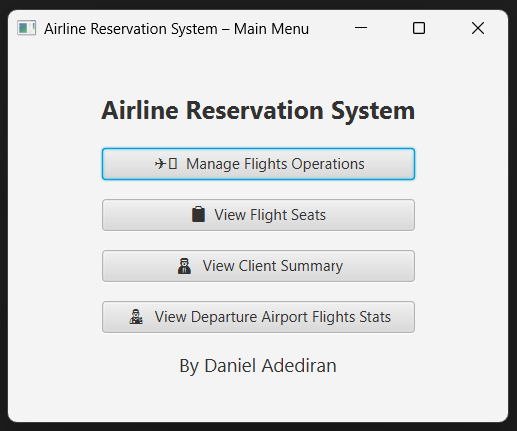
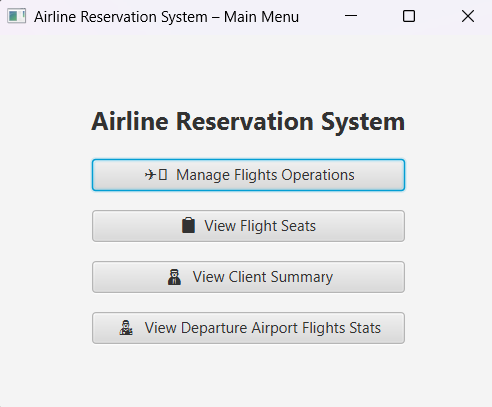
chore: minor changes

Changed region(s): [[0.1829, 0.2359, 0.8232, 0.8845], [0.0, 0.0, 1.0, 1.0]]

diff --git a/ARS-app/src/view/MainMenuView.java b/ARS-app/src/view/MainMenuView.java
@@ -29,11 +29,8 @@ public class MainMenuView {
         report2Btn.setOnAction(e -> new ClientSummaryView().start(new Stage()));
         report3Btn.setOnAction(e -> new FlightDistributionChartView().start(new Stage()));
 
-        Label info = new Label("By Daniel Adediran");
-        info.setStyle("-fx-font-size: 15px");
 
-
-        VBox layout = new VBox(15, title, crudBtn, report1Btn, report2Btn, report3Btn, info);
+        VBox layout = new VBox(15, title, crudBtn, report1Btn, report2Btn, report3Btn);
         layout.setPadding(new Insets(30));
         layout.setStyle("-fx-alignment: center;");
         Scene scene = new Scene(layout, 400, 300);
